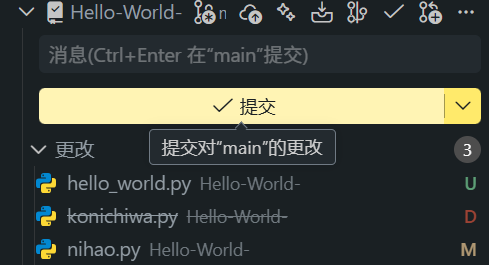
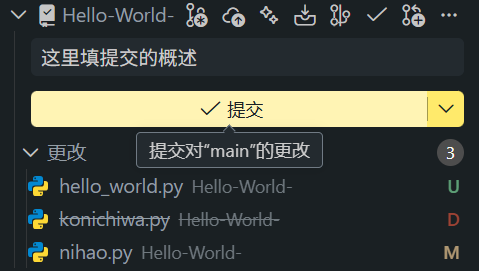
[docs] (1_GitHub使用.md，2_社区里的仓库.md) 完成啦！

diff --git a/基础技能/1_GitHub使用.md b/基础技能/1_GitHub使用.md
@@ -9,7 +9,7 @@
 
 另外，一个人的 GitHub repo 也反映了他的工作方向、最近在做的项目以及他的项目受到了多少人的关注等等。拥有高收藏的 GitHub repo，或者成为著名开源项目（比如深度学习领域的 [PyTorch库](https://github.com/pytorch/pytorch)）的重要贡献者，在找工作时的 ~~威力比原子弹还要大~~ 加分程度不低于顶刊。
 
-Github 这个系列的教程包含新建项目、项目管理、多人协作开发项目时的注意事项等。
+GitHub 这个系列的教程包含新建项目、项目管理、多人协作开发项目时的注意事项等。
 
 ## 入门
 
@@ -87,7 +87,10 @@ where git.exe
 我已经写了很多代码，我想直接用代码构建一个仓库。怎么办？在命令行中进入该项目的文件夹，运行：
 
 ```bash
-# 创建远程 GitHub 仓库和本地 Git 仓库并关联之，推送本地文件至远程仓库
+# 创建本地仓库
+git init
+
+# 创建远程 GitHub 仓库，推送本地文件至远程仓库
 gh repo create Hello-World --public/--private --source=. --remote=hello --push
 ```
 
@@ -176,7 +179,7 @@ gh repo clone <用户名>/<仓库名>
 
 #### 2.1 编辑器的图形化界面
 
-前面我们已经在代码编辑器中下载了 Git 项目管理的拓展。他们提供图形化界面，管理项目非常方便。当本地仓库落后于远程仓库时，我们在 “源代码管理” 的 “更改” 一栏里可见箭头向下 `↓` 的 “同步更改”，而且有 “从 <远程仓库别名>/<某branch> 拉取 x 个提交” 的字样。`↓` 表示本地仓库落后于远程仓库（反之，`↑` 表示本地仓库超过远程仓库），而 `x 个提交` 表示本地仓库相较于远程仓库落后的文件数，也就是远程仓库中有几个文件发生了更改。
+前面我们已经在代码编辑器中下载了 Git 项目管理的拓展。他们提供图形化界面，管理项目非常方便。当本地仓库落后于远程仓库时，我们在 “源代码管理” 的 “更改” 一栏里可见箭头向下 `↓` 的 “同步更改”，而且有 “从 <远程仓库别名>/<分支名> 拉取 x 个提交” 的字样。`↓` 表示本地仓库落后于远程仓库（反之，`↑` 表示本地仓库超过远程仓库），而 `x 个提交` 表示本地仓库相较于远程仓库落后的文件数，也就是远程仓库中有几个文件发生了更改。
 
 点击 “同步更改”，就可以从远程仓库拉取最新的改动，同步到本地仓库。
 
@@ -190,7 +193,7 @@ gh repo clone <用户名>/<仓库名>
 # 拉取远程仓库
 git pull <远程仓库别名> <分支名>
 
-# 缺省格式：拉取默认远程仓库（origin）的默认 branch（main）
+# 缺省格式：拉取默认远程仓库（origin）的默认分支（main）
 git pull
 
 # 等价于
@@ -199,7 +202,7 @@ git pull origin main
 
 ---
 
-目前（包括本科绝大多数时候）我们都是个人开发，没有创建额外远程仓库和额外 branch 的需要，远程仓库别名都是默认的 `origin`，且只有一个默认名为 `main` 的主 branch，因此不必在意 本地和远程的同步以及多 branch 的管理。在多人协作开发时，务必注意这两个问题，通过图形化界面或者命令行参数，指定要拉取的 branch。
+目前（包括本科绝大多数时候）我们都是个人开发，没有创建额外远程仓库和额外分支（branch）的需要，远程仓库别名都是默认的 `origin`，且只有一个默认名为 `main` 的主分支，因此不必在意本地和远程的同步以及多分支的管理。在多人协作开发时，务必注意这两个问题，通过图形化界面或者命令行参数，指定要拉取的分支。
 
 ### 3. 修改本地仓库
 
@@ -207,21 +210,190 @@ git pull origin main
 
 #### 3.1 编辑器的图形化界面
 
-跟之前一样，可以通过图形界面操作。图形化界面自动追踪工作区文件，将其保存到缓存区。点击 “提交” 按钮就直接将缓存区文件提交到本地仓库，非常方便。
+跟之前一样，可以通过图形界面操作。图形化界面自动追踪工作区文件，将其保存到缓存区。写一个概述，点击 “提交” 按钮就直接将缓存区文件提交到本地仓库，非常方便。多人开发时，简明扼要的概述非常重要。
 
 ![commit_1](../src/基础技能/1_GitHub使用/commit_1.png)
 
 #### 3.2 git add 和 git commit 命令
 
+使用命令行时，提交到缓存区和提交到本地仓库是两条不同的命令。`git add` 将工作区的更改添加到缓存区：
 
+```bash
+# 缓存单个文件
+git add <文件名>
 
-[WIP]
+# 缓存工作区所有更改
+git add .
+
+# 查看缓存区
+git status
+```
+
+我们可以多次使用 `git add` 分批缓存，直到准备好提交所有更改。`git commit` 将缓存区的更改应用到本地仓库：
+
+```bash
+# 应用到本地仓库
+git commit -m "<概述>"
+```
 
 ### 4. 修改远程仓库
 
 #### 4.1 编辑器的图形化界面
 
+更新完本地仓库，原先用于 `commit` 的按钮会变成用于 `push` 的 “同步更改”。
+
+![push_1](../src/基础技能/1_GitHub使用/push_1.png)
+
 #### 4.2 git push 命令
+
+从远程仓库拉取更改用 `git pull`，从本地仓库推送更改至远程仓库用 `git push`：
+
+```bash
+# 推送至远程仓库
+git push <远程仓库别名> <分支名>
+
+# 例子
+git push origin main
+```
 
 ### 其他管理
 
+#### .gitignore 文件
+
+有些文件没必要上传到仓库（比如编译产生的中间文件、依赖包文件夹、含密码的配置文件、AI Agent 的设置文件等），把它们写进 `.gitignore`，Git 就会自动忽略它们，只留在工作区。
+
+在 Web 界面创建仓库时，GitHub 会根据我们选择的项目语言，提供相应的 `.gitignore` 模板。也可以手动创建：在项目根目录新建 `.gitignore` 文件，写入要忽略的文件夹、文件格式：
+
+```bash
+# 忽略所有 .log 文件
+*.log
+
+# 忽略格式为 abcd_xxx.py 的文件
+abcd_*.py
+
+# 忽略特定文件
+secret_config.json
+
+# 忽略 models 文件夹
+models/
+
+# 忽略根目录下的 build 文件夹，但保留子文件夹中的 build
+/build
+```
+
+每条规则占一行。`*` 是通配符，`/` 结尾表示文件夹。`.gitignore` 支持 [fnmatch(3) 模式的 glob 字符串匹配规则](https://www.cnblogs.com/traditional/p/11874545.html) 以筛选特定的文件名。
+
+#### 查看历史与状态
+
+我们经常需要查看自己和别人的修改历史，以及当前的仓库状态。可以在编辑器的图形化界面 “源代码管理” 中直接看到文件状态、提交历史。在文件状态栏中点击更改的文件，会打开一个对比栏展示该文件的更改。其中 U、D、M 分别代表新的上传、删除以及内容修改。
+
+![stat](../src/基础技能/1_GitHub使用/commit_1.png)
+
+![graph](../src/基础技能/1_GitHub使用/git_graph.png)
+
+![diff](../src/基础技能/1_GitHub使用/diff.png)
+
+这些图形化界面也有对应的命令集：
+
+```bash
+# 查看缓存区状态
+git status
+
+# 查看具体改动
+git diff
+
+# 查看提交历史
+git log
+
+# 一行一条
+git log --oneline
+
+# 最近 5 条
+git log -5
+```
+
+#### 撤销与回退
+
+Git 的工作区、缓存区、本地仓库多层次存储，可以实现不同级别的回退。
+
+在图形化界面中，“源代码管理” 对已缓存文件提供 “取消暂存” 选项（对应 `git reset HEAD`）；对未缓存文件提供 “放弃更改” 选项（对应 `git checkout --`）。
+
+这些图形化界面也有对应的命令集：
+
+| 级别 | 命令 |
+|:---:|:----:|
+| 撤回未缓存修改 | git checkout -- <文件名> |
+| 撤回缓存 | `git reset HEAD <文件名>` |
+| 撤回 `commit` | `git reset --soft HEAD~1` |
+| 撤回 `push` | `git revert` |
+
+#### 分支管理
+
+在多版本开发（比如不同游戏版本 / 不同衍生功能的程序）时，需要存储项目的不同版本。另外，对大型项目，我们希望代码不能有严重 bug，正式发行前最好推出一个测试版（**dev**）试用，将测试版与正式发行版（**release**）分隔开。这时我们需要为同一个项目创建不同的分支（branch），管理不同的版本。
+
+目前我们都是个人开发小项目，只需要一个默认分支 `main`；但学会使用分支是后续多人协作或多功能开发的基础，去实习 / 工作肯定每天打交道的。
+
+```bash
+# 查看所有分支（当前分支前有 * 号）
+git branch
+
+# 创建新分支
+git branch <分支名>
+
+# 切换到某分支
+git switch <分支名>
+# switch 的老版本
+git checkout <分支名>
+
+# 创建并切换到新分支
+git switch -c <分支名>
+
+# 将某分支合并到当前分支
+git merge <分支名>
+
+# 删除分支
+git branch -d <分支名>
+```
+
+多分支的工作流程是这样的：我们从 `main` 分出一条 `dev`（开发版）分支，在 `dev` 上开发，检查无误后把 `dev` 合并到 `main`，最后删除 `dev` 分支。
+
+在图形化界面中，编辑器的左下角会显示当前分支，点击切换分支或创建新分支。“源代码管理” 面板中的 “分支” 菜单也可以合并分支。
+
+#### 远程仓库管理
+
+有时一个本地仓库需要关联多个远程仓库（比如同时推送到 GitHub 和课题组自建的 GitLab），或者更换远程仓库地址：
+
+```bash
+# 查看已关联的远程仓库
+git remote -v
+
+# 添加新的远程仓库
+git remote add <远程仓库别名> <仓库URL>
+
+# 修改远程仓库 URL
+git remote set-url <远程仓库别名> <新URL>
+
+# 删除远程仓库关联
+git remote remove <远程仓库别名>
+```
+
+默认 clone 下来的仓库会自动把来源地址设为别名 `origin`，一般情况下不用改动。一个特殊情况是，如果远程仓库是别人某仓库的 [分叉（fork）](2_社区里的仓库.md)，那么除了分叉仓库 `origin` 以外，我们习惯上会添加一个额外的远程仓库别名 `upstream`（上游仓库），指向分叉的原始仓库，以方便拉取来自原作者的更新。
+
+```mermaid
+flowchart LR
+    A[工作区<br/>（直接操作的对象）] -->|git add<br/> 缓存、筛选| B[缓存区]
+    B -->|git commit<br/> 提交更改| C[本地仓库]
+    C -->|git push<br/> 提交更改| D[远程 main]
+    C -->|git push<br/> 提交更改| E[远程 upstream]
+    D -->|git pull<br/> 拉取更新| C
+    E -->|git pull<br/> 拉取更新| C
+    C-->|自动同步| B
+    B-->|自动同步| A
+
+style D fill:#0ff;
+style E fill:#0ff;
+```
+
+---
+
+至此我们就学完了对自己仓库的操作。下一节我们去看看别人的仓库。

diff --git a/基础技能/2_社区里的仓库.md b/基础技能/2_社区里的仓库.md
@@ -6,23 +6,12 @@
 
 ## 1. 使用 clone 下载别人的仓库
 
-将别人仓库里的代码下载到本地（自己的开发环境），这就是所谓的 `clone`。GitHub 提供了方便的几种 clone 办法。
+[1_GitHub使用.md](1_GitHub使用.md) 里提到的 `clone` 也可以下载别人仓库里的代码到本地（自己的开发环境）。方法和之前一样，可以下载打包的 .zip 文件，或者准备好仓库路径用命令行 clone。
 
 ![repoClone](../src/基础技能/2_社区里的仓库/methods_clone.png)
 
-第一种是直接下载打包的.zip文件，然后手动解压；
 
-第二种是直接在 VSCode 编辑器中打开；
-
-第三种我最常用，复制其 SSH 命令，然后在目标位置运行命令；
-
-第四种方法使用我们在 [GitHub使用.md](1_GitHub使用.md) 里提到的 GitHub CLI:
-
-```bash
-gh repo clone <用户名>/<仓库名>
-```
-
-拿第三种（SSH）举例：
+以 SSH 举例：
 
 ```bash
 # 进入要下载到的目标路径里
@@ -32,26 +21,28 @@ cd /d <目标路径>
 git clone [email redacted]:rmcong/RGBD-Cosal150-Dataset.git
 ```
 
-这种方法需要本地安装 [GitHub使用.md](1_GitHub使用.md) 里提到的 `git` 服务并且配置好 GitHub 账户。只需配置一次，后面非常方便。
+第一次使用这种方法需要配置好 GitHub 账户。只需配置一次，后面非常方便。
 
 注意，这些方法只是下载了别人的代码。如果你想基于别人的仓库创建一个属于自己的拷贝仓库，需要用到下面的 `fork`。
 
 ## 2. 使用 fork 创建拷贝
 
-我们没有直接修改别人仓库的权限。如果我们想贡献内容，怎么办？首先要创建属于自己的分支（`fork`）。这个分支其实就是源仓库的一个拷贝，只不过所有权属于自己。我们可以对这个分支随意做更改，与源仓库互不影响（注意，源仓库的改动也不会影响分支）。借助这个特性，我们可以用分支学习、扩展别人的源代码，这就是 `fork` 的意义。
+我们没有直接修改别人仓库的权限。如果我们想贡献内容，怎么办？首先要创建属于自己的 **分叉仓库**（`fork`）。这个分叉其实就是源仓库的一个拷贝，只不过所有权属于自己。我们可以对这个分叉随意做更改，与源仓库互不影响（注意，源仓库的改动也不会影响分叉）。借助这个特性，我们可以用分叉仓库学习、扩展别人的源代码，这就是 `fork` 的意义。
 
-在我们想拷贝的源仓库，点击 `Fork` 按钮，并在新页面选择将分支仓库的所有权划给谁（我们的个人账户，或者我们加入的某组织），最后点击 `Create fork`。这样我们就创建了一个可以直接改动的分支仓库。
+在我们想拷贝的源仓库，点击 `Fork` 按钮，并在新页面选择将分叉仓库的所有权划给谁（我们的个人账户，或者我们加入的某组织），最后点击 `Create fork`。这样我们就创建了一个可以直接改动的分叉仓库。
 
 ![try fork](../src/基础技能/2_社区里的仓库/fork_1.png)
 ![choose owner](../src/基础技能/2_社区里的仓库/fork_2.png)
 
+注意分支（branch）和分叉（fork）是完全不一样的。分支（branch）对应 **同一仓库** 不同版本 / 功能的程序，而分叉（fork）对应所有权不同的 **诸多仓库**。
+
 ## 3. 使用 pull requests 贡献内容
 
-我觉得自己新增的内容很不错，比原作者的水平高十分甚至九分。这么好的程序，若不发出去岂不可惜！这时候我该怎么做呢？确认好自己的更改已经上传到 GitHub 上的分支仓库后，我们进入分支仓库。这时候会出现一个状态栏，提示
+我觉得自己新增的内容很不错，比原作者的水平高十分甚至九分。这么好的程序，若不发出去岂不可惜！这时候我该怎么做呢？这就是 **Pull Requests**（**PR**）的工作。确认好自己的更改已经上传到 GitHub 上的分叉仓库后，我们进入分叉仓库。这时候会出现一个状态栏，提示
 
 > “This branch is xxx commit ahead of <源仓库>”
 
-也就是说我们的分支相比源仓库有了新的改动。我们可以点击这个状态栏里的 `contribute` ，也可以点击上方的 `pull requests`。这两个按钮最终都会将我们定向到新建一个合并请求的界面。
+也就是说我们的分叉相比源仓库有了新的改动。我们可以点击这个状态栏里的 `contribute` ，也可以点击上方的 `pull requests`。这两个按钮最终都会将我们定向到新建一个合并请求的界面。
 
 ![our fork](../src/基础技能/2_社区里的仓库/pull_request_1.png)
 
@@ -59,11 +50,11 @@ git clone [email redacted]:rmcong/RGBD-Cosal150-Dataset.git
 
 ![pull requests](../src/基础技能/2_社区里的仓库/pull_request_2.png)
 
-这样，系统就会给我们列出这个分支相对于源仓库的改动。另外，红框框中还可以选择将分支仓库的哪个 `branch` 合并到源仓库的哪个 `branch` 里。对初学者来说，一般情况下都是唯一的主 branch（叫 `main`） 合并到主 branch `main` 中，不必改动。多 branch 经常在多版本开发（比如不同游戏版本 / 不同衍生功能的程序）和大型开发（一个正式发布 branch，一个测试开发 branch 等）中使用。检查 branch 和更改的内容没问题后（请务必做这件事），点击 `Create pull request`：
+这样，系统就会给我们列出这个分叉相对于源仓库的改动。另外，红框框中还可以选择将分叉仓库的哪个分支（branch）合并到源仓库的哪个分支里。对初学者来说，一般情况下都是唯一的主分支（`main`）合并到主分支（`main`）中，不必改动。检查分支和更改的内容没问题后（请务必做这件事），点击 `Create pull request`：
 
 ![current requests](../src/基础技能/2_社区里的仓库/pull_request_3.png)
 
-这个页面需要填写这次合并的信息，是展示给源仓库所有者用的，因此可以填写得详细一点。如果懒，可以点击红色框框，让 Copilot 帮你写一份。主要说明你做改动的地方以及原因。如果有新函数/变量/类等一切新内容，请不吝键盘给出其类型、用法和结构。这个页面和 `issues` 也是一样的，支持 `.md` 文本。
+这个页面需要填写这次合并的信息，是展示给源仓库所有者用的，因此可以填写得详细一点。如果懒，可以点击红色框框，让 GitHub 内置的 Agent —— Copilot 帮你写一份。主要说明你做改动的地方以及原因。如果有新函数/变量/类等一切新内容，请不吝键盘给出其类型、用法和结构。这个页面和 `issues` 也是一样的，支持 `.md` 文本。
 
 ![create it](../src/基础技能/2_社区里的仓库/pull_request_4.png)
 
@@ -77,11 +68,41 @@ git clone [email redacted]:rmcong/RGBD-Cosal150-Dataset.git
 flowchart LR
     A[源仓库<br/>（别人的）] -->|1. fork| B[Fork 仓库<br/>（自己的）]
     B -->|2. pull request| A
+
+style A fill:#0ff;
+style B fill:#0ff;
 ```
 
 ## 4. 提交 issues
 
-issues 是非常方便的反馈方法。直接在源仓库点击 `issues` 进入，这里可以看见其他人提交的反馈，还有仓库所有者的回复。点击 `new issue`，填写标题和正文，最后点击 `create` 就能提交啦！正文其实就是一个 `.md` 文件，因此支持各种 markdown 组件和功能。红色的框框可以让 GitHub 内置的 Agent —— Copilot 帮忙写。
+issues 是非常方便的反馈方法。直接在源仓库点击 `issues` 进入，这里可以看见其他人提交的反馈，还有仓库所有者的回复。点击 `new issue`，填写标题和正文，最后点击 `create` 就能提交啦！正文其实就是一个 `.md` 文件，因此支持各种 markdown 组件和功能。红色的框框可以让 Copilot 帮忙写。
 
 ![issues](../src/基础技能/2_社区里的仓库/issue_1.png)
 ![new issue](../src/基础技能/2_社区里的仓库/issue_2.png)
+
+## 5. GitHub 的其他功能
+
+### GitHub actions
+
+假设我们是某项目的管理者。每当有人提交了对仓库的 pull requests（PR）时，我们都要亲自检查一下 ta 提供代码的结构、风格、错误等等，非常麻烦。可不可以配置一个自动化的工作流，每次 PR 时固定触发，代替我们完成这些工作呢？另外，如果我们用仓库存储一个数据集，可不可以做自动化流程，对每次新加入的数据做预处理呢？这就是一种 [CI/CD 工作流](https://cloud.tencent.com/developer/article/2635802)。
+
+**GitHub actions** 是 GitHub 内置的 CI/CD 自动化工具。挖个坑：[教程](https://www.bilibili.com/video/BV1jNSEBiE6D?vd_source=3e42722ff1d4439fadc7c36ddfc692be)。
+
+### wiki
+
+每个仓库附带一个 **wiki** 页面，用于写更详细的文档。容易上手、量大管饱的文档在公司和大型项目中非常重要。
+
+### projects
+**projects**（项目看板）是管理复杂项目进度的看板视图。
+
+我们可以慢慢来，学会 `issues` 和 `pull requests` 已经够用了，它们是参与开源社区的基本功。
+
+---
+
+至此，GitHub 的基础使用就介绍完了。
+
+回顾一下，我们在 [1_GitHub使用.md](1_GitHub使用.md) 学会了 `init` 创建仓库、`pull` 拉取更新、`add/commit/push` 提交自己的更改、用 `.gitignore` 管理忽略文件、查看历史和撤销更改，以及分支和远程仓库的基本操作；
+
+在 [2_社区里的仓库.md](2_社区里的仓库.md) 学会了 `clone` 仓库到本地、`fork` 创建属于自己的分叉仓库、`pull requests` 合并不同的分叉仓库、`issues` 向仓库开发者提供反馈等等。
+
+有了这些基础，在日常开发和团队协作中管理项目就非常简单了。下一篇是关于进阶问题的，主要包括一些实践中可能遇到的问题，比如如何处理合并冲突（merge conflicts）、规范 commit 信息以及合并过程中的代码评审（code review）。